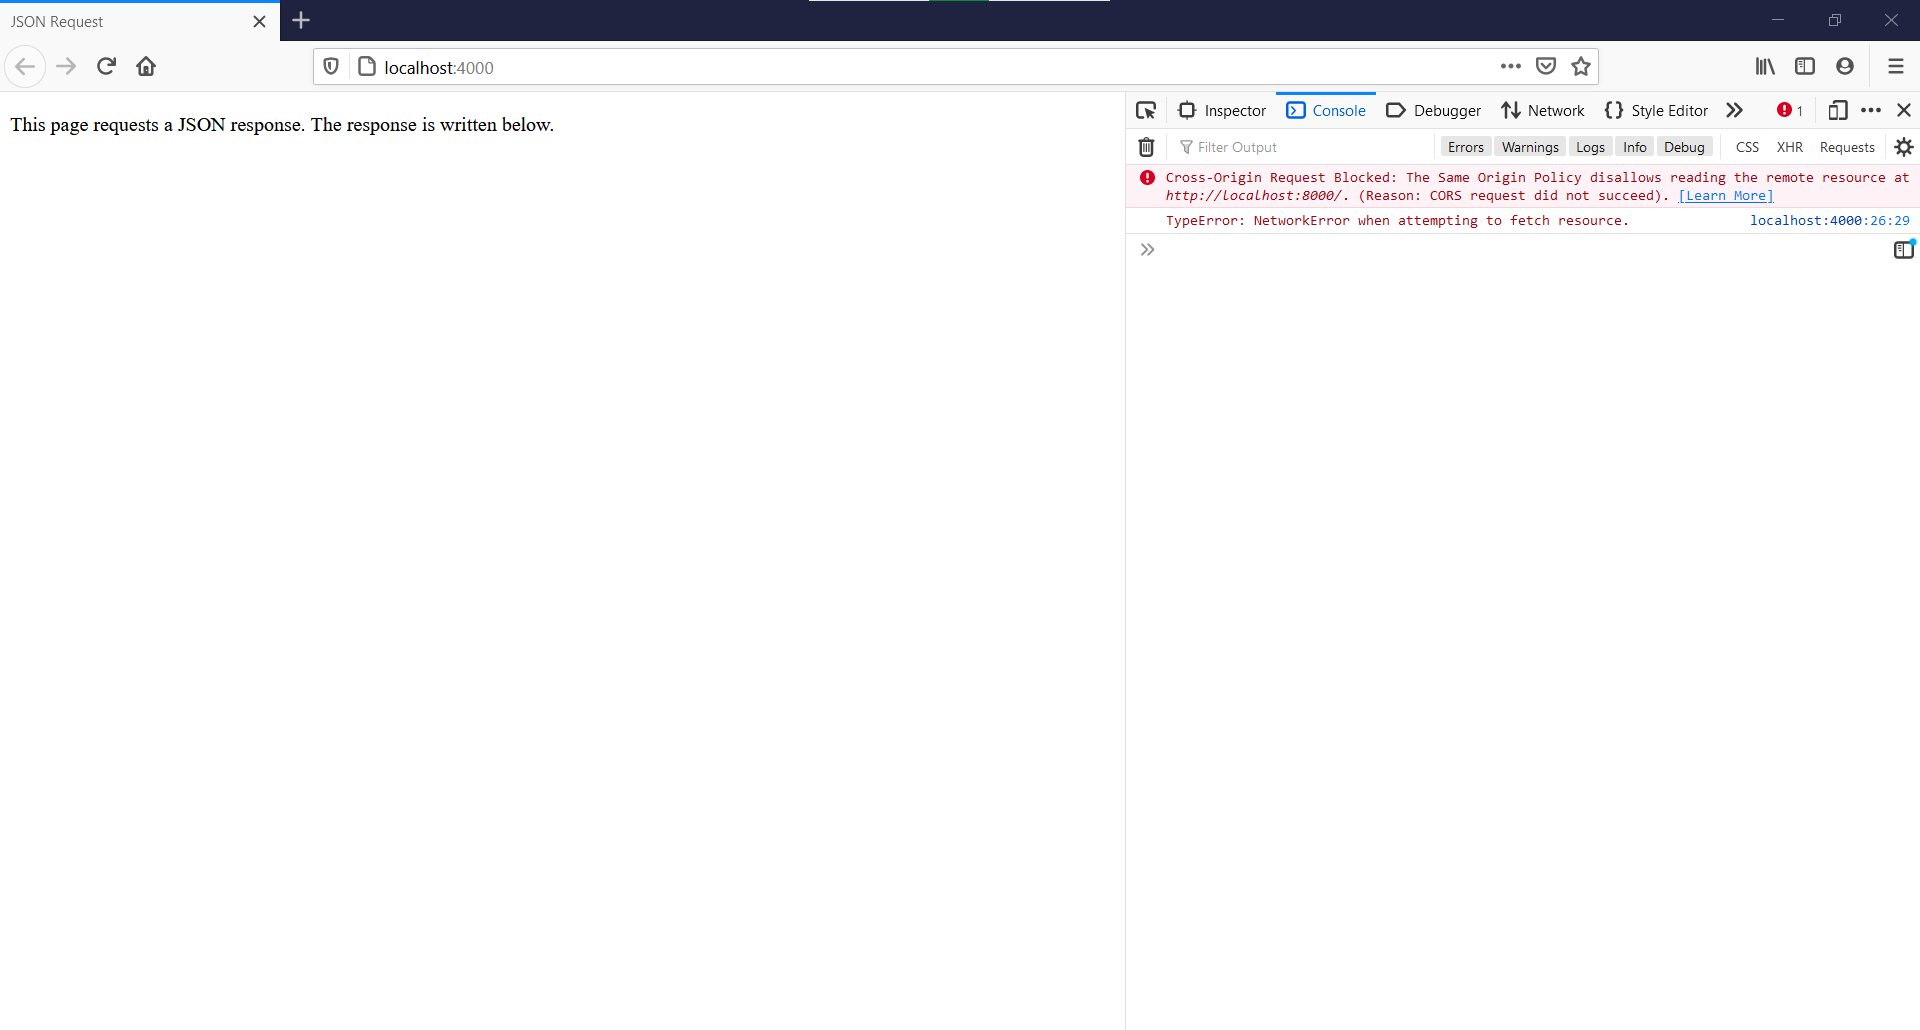
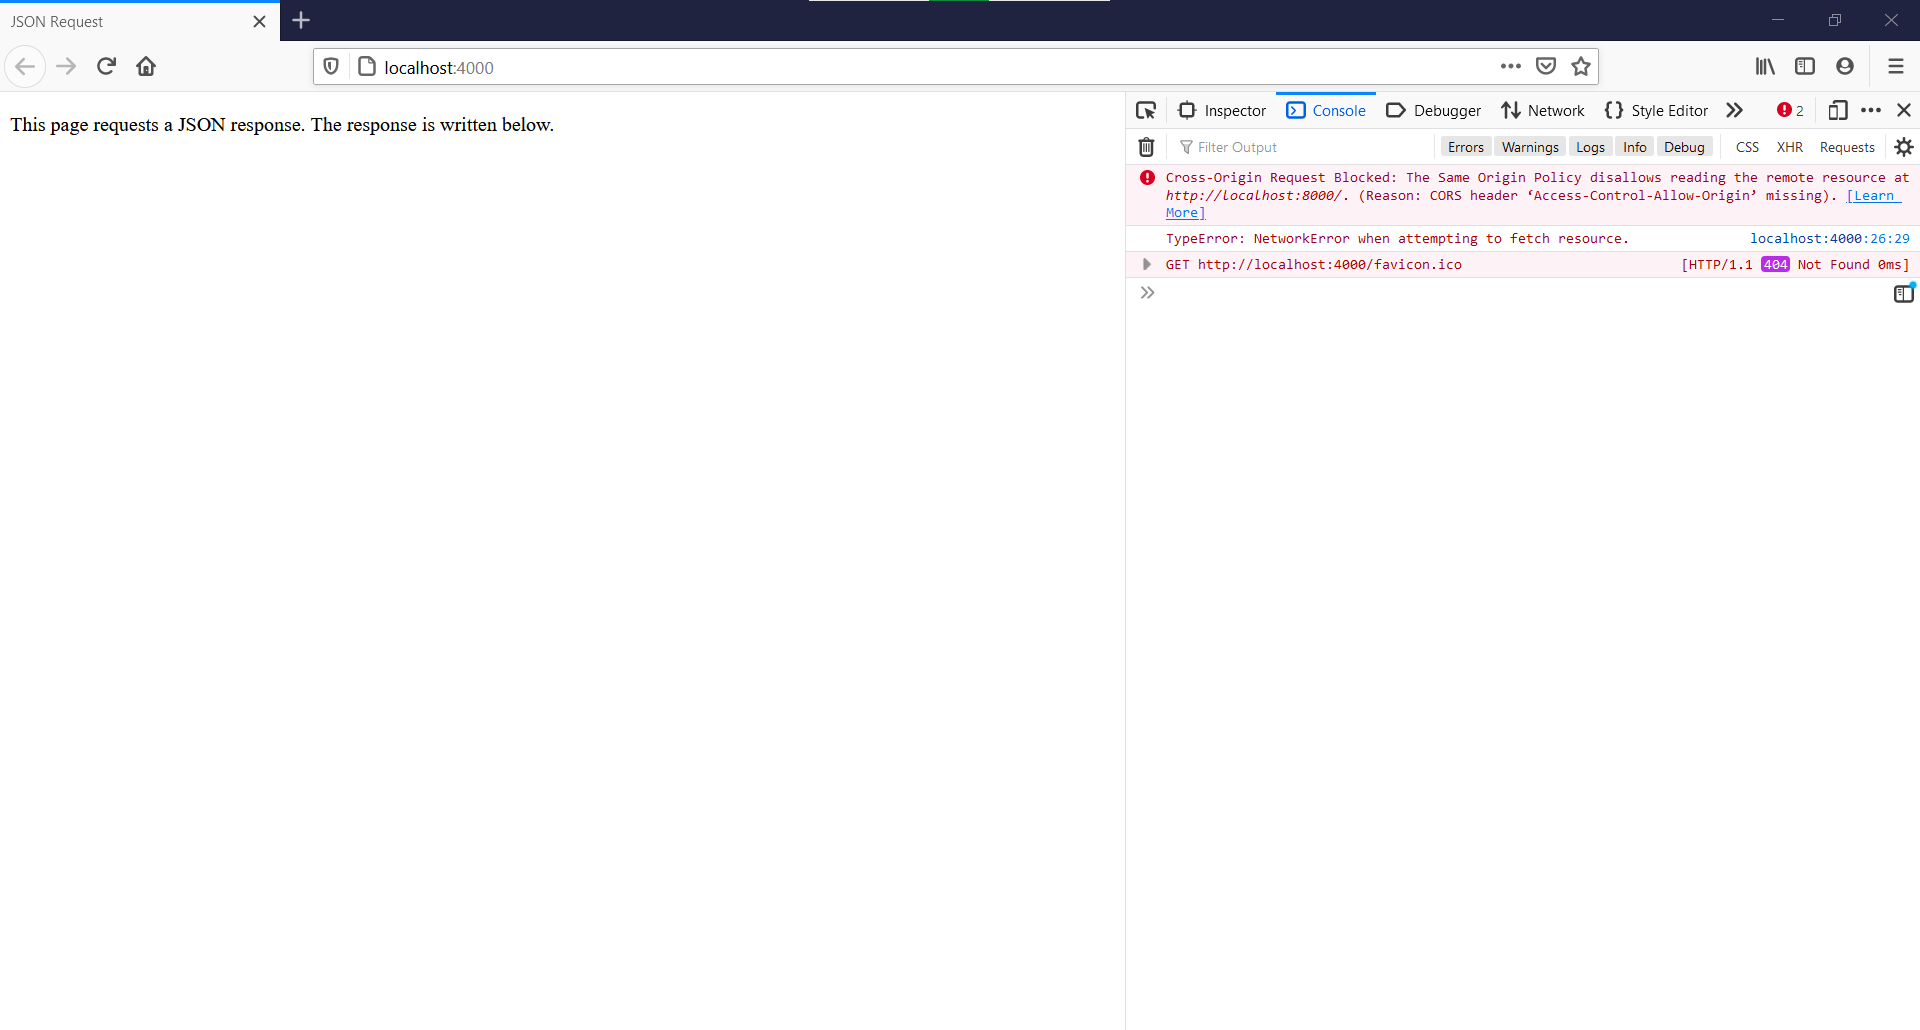
Test README for readability

Changed region(s): [[0.5938, 0.1864, 1.0, 0.2796]]

diff --git a/assignments/Bartels/5/5.3/frame.html b/assignments/Bartels/5/5.3/frame.html
@@ -7,7 +7,7 @@
     </head>
     <body>
         <p>
-            This page attempts to frame 4shared.com, a site that allowed embedding in Assignment 4.  The iframe is shown below.
+            This page attempts to frame apache.org, a site that allowed embedding in Assignment 4.  The iframe is shown below.
 
             <iframe src="https://www.apache.org/"></iframe>
         </p>

diff --git a/assignments/Bartels/5/README.md b/assignments/Bartels/5/README.md
@@ -1,0 +1,46 @@
+# Assignment 5: Same-origin Policy, CORS, CSP
+
+## 5.1: Blocking and reading responses from another origin using CORS
+
+### This section was completed using 2 directories: request and response.  They are broken down below.
+* [request](5.1/request/)
+  * [request.html](5.1/request/request.html):  HTML page that performs a fetch to port 8000 on localhost and attempts to write the JSON response in the HTML body.
+  * [request.js](5.1/request/request.js): Node.js server that serves request.html.
+* [response](5.1/response)
+  * [favoriteThings.json](5.1/response/favoriteThings.json):  JSON file that contains the JSON response about my 3 favorite things from Assignment 1.
+  * [deny-response.js](5.1/response/deny-response.js):  Node.js server that serves favoriteThings.json on localhost port 8000.  Denies cross origin request from request.html.  This is shown below.
+  <img src="5.1/deniedJSONRequest.png" width="1000">
+  * [allow-response.js](5.1/response/allow-response.js)  Node.js server that serves favoriteThings.json on localhost port 8000.  Allows cross origin request from request.html using the cors npm package.  The line ```app.use(cors())``` sets the ```Access-Control-Allow-Origin``` header to ```*```.  This means that the server's resources can be accessed by any origin.  The successful request is shown below.
+  <img src="5.1/acceptedJSONRequest.png" width="1000">
+
+### YouTube video:  
+
+## 5.2: Blocking and reading HTTP response headers from another origin using CORS
+
+### This section was completed using 5 files:
+* [headers.html](5.2/headers.html):  HTML file that performs a fetch to port 8000 on localhost and attempts to write the response headers in the HTML body.
+* [request.js](5.2/request.js):  Node.js server that serves headers.html.
+* [favoriteThings.json](5.2/favoriteThings.json):  JSON file that contains the JSON response about my 3 favorite things from Assignment 1.
+* [block-headers.js](5.2/block-headers.js):  Node.js server that serves favoriteThings.json on localhost port 8000.  Blocks cross-origin request from headers.html because the ```Access-Control-Allow-Origin``` header is not set.  Also serves 3 custom HTTP response headers shown below.
+  * ```X-CS595s21-amazonshow: Grimm```
+  * ```X-CS595s21-marvelmovie: Logan```
+  * ```X-CS595s21-netflixshow: Longmire```
+  * The blocked cross-origin request from headers.html is shown below
+<img src="5.2/blockedHeaders.png" width="1000">
+
+* [allow-headers.js](5.2/allow-headers.js):  Node.js server that serves favoriteThings.json on localhost port 8000.  Also serves the same 3 custom HTTP response headers as block-headers.js.  Allows the cross-origin request from headers.html because the line ```app.use(cors())``` sets the ```Access-Control-Allow-Origin``` header to ```*```.  This means that the server's resources can be accessed by any origin.  The successful request is shown below.
+<img src="5.2/allowedHeaders.png" width="1000">
+
+### YouTube video:  
+
+## 5.3: Content-Security-Policy: embedding from another site
+
+### This section was completed using 3 files:
+* [frame.html](5.3/frame.html):  HTML file that attempts to embed apache.org in an iframe.
+* [block-framing.js](5.3/block-framing.js):  Node.js server that serves frame.html uses Content-Security-Policy to prevent embedding of apache.org by setting ```default-src``` to ```self```.  The blocked frame attempt is shown below.
+<img src="5.3/blocked-frame-attempt.png" width="1000">
+
+* [allow-framing.js](5.3/allow-framing.js):  Node.js server that serves frame.html uses Content-Security-Policy to allow embedding of apache.org by setting ```default-src``` to ```self``` and ```https://www.apache.org```.  The successful frame attempt is shown below.
+<img src="5.3/allowed-frame-attempt.png" width="1000">
+
+### YouTube video:  
